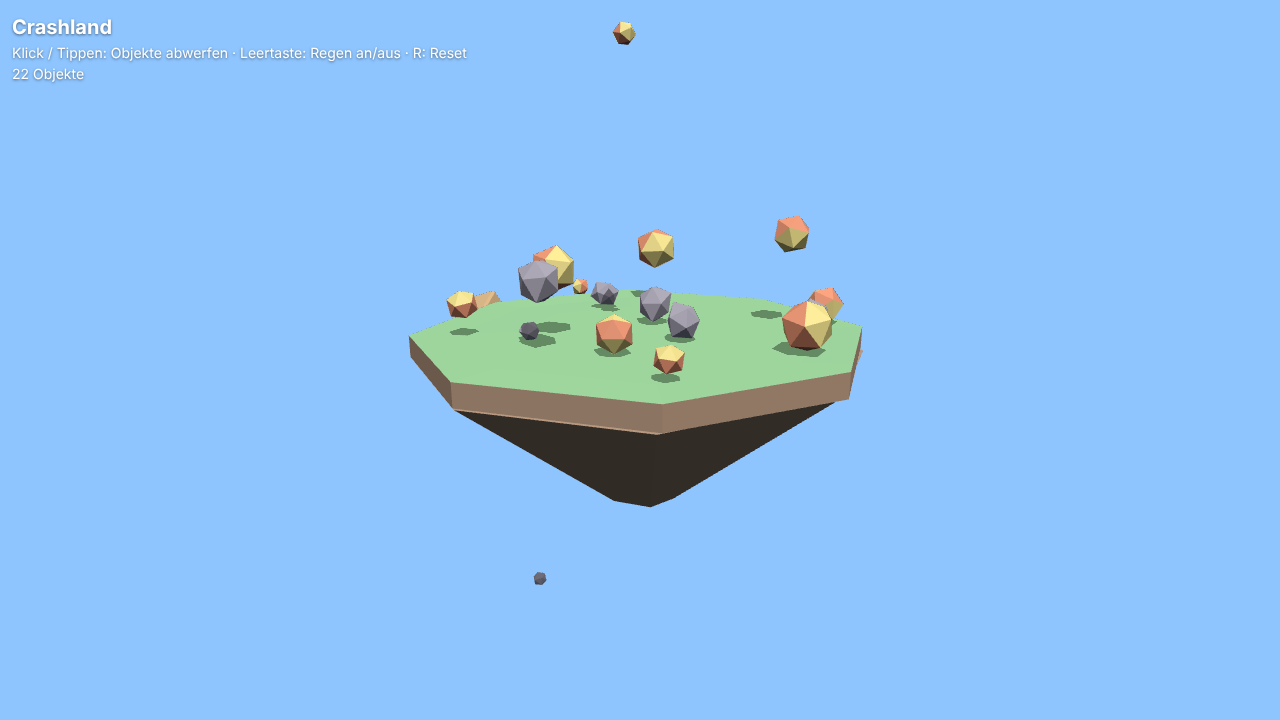
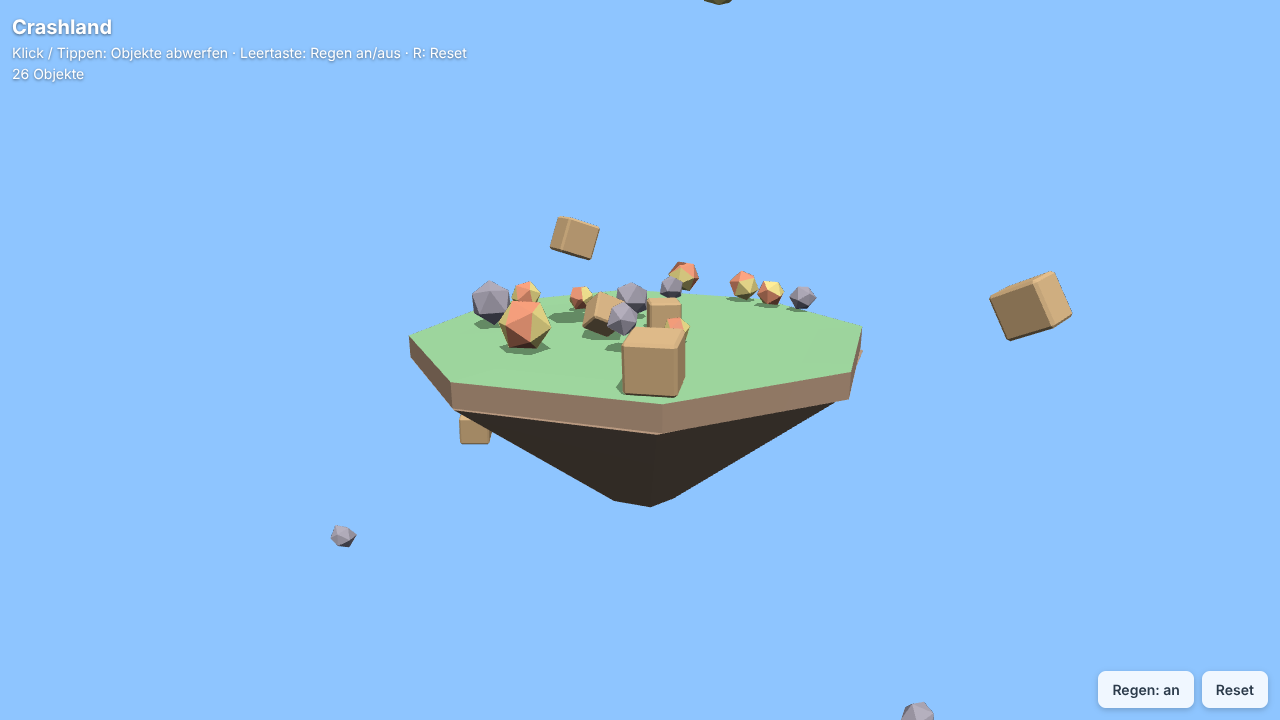
Embed glb models in the bundle, add on-screen rain/reset buttons
Claude-Session: https://claude.ai/code/session_01QStA4257P6PGfjBjXrtENg

diff --git a/src/main.js b/src/main.js
@@ -41,10 +41,17 @@ world.defaultContactMaterial = new CANNON.ContactMaterial(mat, mat, { friction: 
 
 // ---------- Assets ----------
 const loader = new GLTFLoader();
-const load = (n) => loader.loadAsync(`./assets/${n}.glb`).then((g) => {
+// Models are bundled as base64 data URLs (vite assetsInlineLimit) so the build is a single JS file.
+const urls = import.meta.glob('./assets/*.glb', { query: '?url', import: 'default', eager: true });
+const load = async (n) => {
+  const url = urls[`./assets/${n}.glb`];
+  const buf = url.startsWith('data:')
+    ? Uint8Array.from(atob(url.slice(url.indexOf(',') + 1)), (c) => c.charCodeAt(0)).buffer
+    : await (await fetch(url)).arrayBuffer();
+  const g = await loader.parseAsync(buf, '');
   g.scene.traverse((o) => { if (o.isMesh) { o.castShadow = true; o.receiveShadow = true; } });
   return g.scene;
-});
+};
 const [plate, ball, rock, crate] = await Promise.all(['plate', 'ball', 'rock', 'crate'].map(load));
 
 scene.add(plate);
@@ -97,8 +104,12 @@ renderer.domElement.addEventListener('pointerup', (e) => {
   const p = hit ? hit.point : ray.ray.at(20, new THREE.Vector3());
   for (let i = 0; i < 5; i++) spawn(new THREE.Vector3(p.x + (Math.random() - 0.5), 10 + i * 1.3, p.z + (Math.random() - 0.5)));
 });
+const rainBtn = document.getElementById('btn-rain');
+function toggleRain() { raining = !raining; rainBtn.textContent = `Regen: ${raining ? 'an' : 'aus'}`; }
+rainBtn.addEventListener('click', toggleRain);
+document.getElementById('btn-reset').addEventListener('click', reset);
 addEventListener('keydown', (e) => {
-  if (e.code === 'Space') raining = !raining;
+  if (e.code === 'Space') { e.preventDefault(); toggleRain(); }
   if (e.code === 'KeyR') reset();
 });
 addEventListener('resize', () => {

diff --git a/index.html b/index.html
@@ -8,10 +8,14 @@
     html, body { margin: 0; height: 100%; overflow: hidden; background: #8ec5ff; font-family: system-ui, sans-serif; }
     #hud { position: fixed; top: 12px; left: 12px; color: #fff; text-shadow: 0 1px 3px #0008; font-size: 14px; line-height: 1.5; pointer-events: none; }
     #hud b { font-size: 20px; }
+    #ui { position: fixed; right: 12px; bottom: 12px; display: flex; gap: 8px; }
+    #ui button { font: 600 14px system-ui, sans-serif; color: #2b3a4a; background: #fffd; border: 0; border-radius: 8px; padding: 10px 14px; box-shadow: 0 2px 6px #0003; cursor: pointer; }
+    #ui button:focus-visible { outline: 3px solid #2b6cb0; }
   </style>
 </head>
 <body>
   <div id="hud"><b>Crashland</b><br/>Klick / Tippen: Objekte abwerfen · Leertaste: Regen an/aus · R: Reset<br/><span id="count"></span></div>
+  <div id="ui"><button id="btn-rain">Regen: an</button><button id="btn-reset">Reset</button></div>
   <script type="module" src="/src/main.js"></script>
 </body>
 </html>

diff --git a/vite.config.js b/vite.config.js
@@ -1,1 +1,4 @@
-export default { base: './', build: { target: 'es2022' } };
+export default {
+  base: './',
+  build: { target: 'es2022', assetsInlineLimit: 1024 * 1024, chunkSizeWarningLimit: 2000 },
+};

diff --git a/blender/build_assets.py b/blender/build_assets.py
@@ -4,7 +4,7 @@ Run:  blender --background --python blender/build_assets.py
 """
 import bpy, bmesh, math, os, random
 
-OUT = os.path.join(os.path.dirname(os.path.abspath(__file__)), "..", "public", "assets")
+OUT = os.path.join(os.path.dirname(os.path.abspath(__file__)), "..", "src", "assets")
 os.makedirs(OUT, exist_ok=True)
 random.seed(7)
 

diff --git a/README.md b/README.md
@@ -14,7 +14,7 @@ npm run build      # static build in dist/
 
 ## Assets
 
-All low-poly models are generated procedurally by `blender/build_assets.py` and exported as `.glb` to `public/assets/`:
+All low-poly models are generated procedurally by `blender/build_assets.py` and exported as `.glb` to `src/assets/`:
 
 ```bash
 npm run assets     # = blender --background --python blender/build_assets.py
